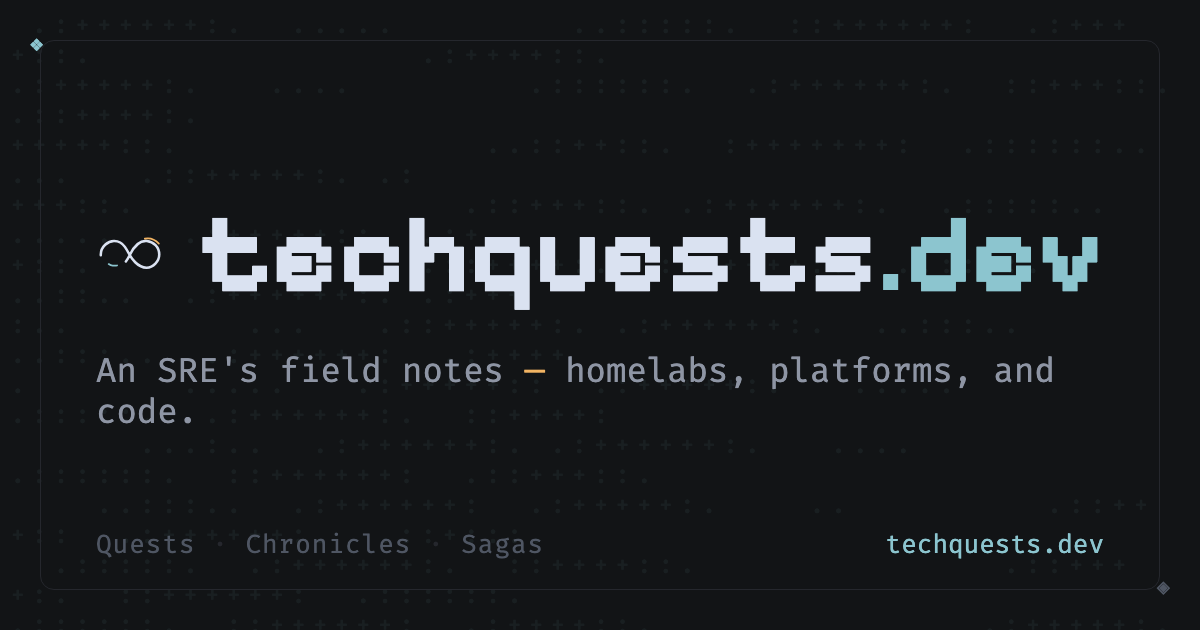
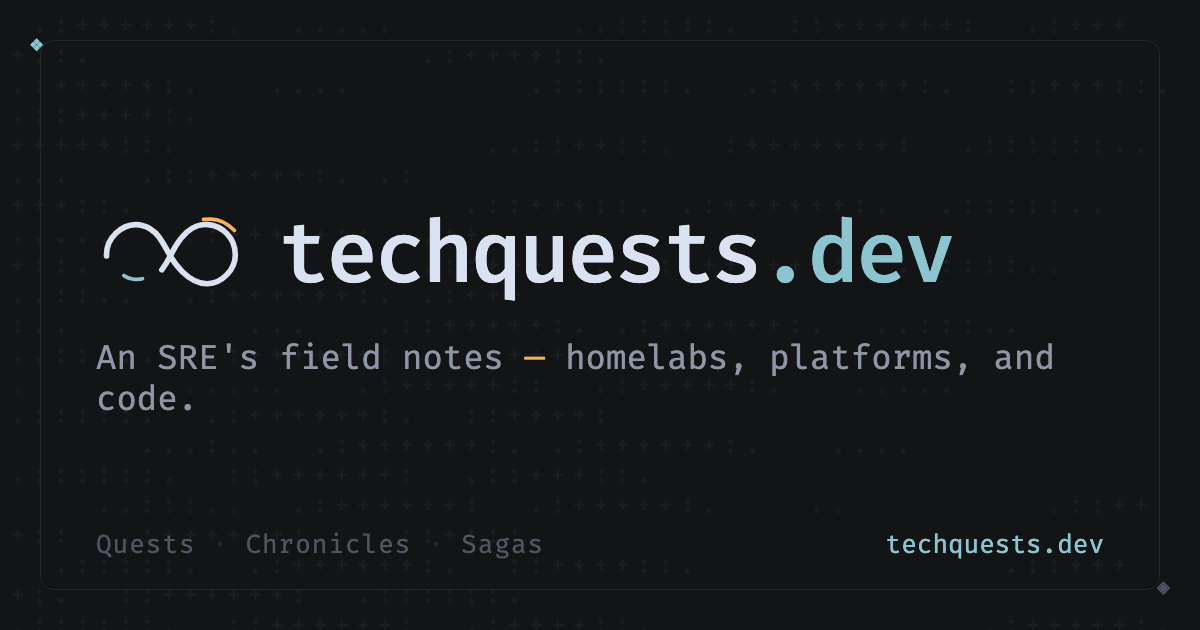
feat(type): retire 8-bit display font for Fira Mono 500
Pixelify Sans clashed with the loop mark, which is drawn with thin,
geometric strokes. Point $font-family-display at the mono already used
sitewide so there is one type voice, and set the display weight to 500 —
bold mono stems read far heavier than the logo sitting next to them.

Adds Fira Mono 500/700 faces (only 400 was loaded), drops pixelify-sans.css
and its import, and regenerates the OG card to match.

Changed region(s): [[0.0617, 0.3317, 0.925, 0.5127], [0.0617, 0.5429, 0.6167, 0.6937], [0.6475, 0.5429, 0.8942, 0.6032]]

diff --git a/src/lib/assets/fonts/fira-mono.css b/src/lib/assets/fonts/fira-mono.css
@@ -23,3 +23,29 @@
     U+0000-00FF, U+0131, U+0152-0153, U+02BB-02BC, U+02C6, U+02DA, U+02DC, U+0304, U+0308, U+0329,
     U+2000-206F, U+2074, U+20AC, U+2122, U+2191, U+2193, U+2212, U+2215, U+FEFF, U+FFFD;
 }
+
+/* fira-mono-latin-500-normal — the display weight (wordmark + hero title) */
+@font-face {
+  font-family: 'Fira Mono';
+  font-style: normal;
+  font-display: swap;
+  font-weight: 500;
+  src: url(https://cdn.jsdelivr.net/fontsource/fonts/fira-mono@latest/latin-500-normal.woff2)
+    format('woff2');
+  unicode-range:
+    U+0000-00FF, U+0131, U+0152-0153, U+02BB-02BC, U+02C6, U+02DA, U+02DC, U+0304, U+0308, U+0329,
+    U+2000-206F, U+2074, U+20AC, U+2122, U+2191, U+2193, U+2212, U+2215, U+FEFF, U+FFFD;
+}
+
+/* fira-mono-latin-700-normal */
+@font-face {
+  font-family: 'Fira Mono';
+  font-style: normal;
+  font-display: swap;
+  font-weight: 700;
+  src: url(https://cdn.jsdelivr.net/fontsource/fonts/fira-mono@latest/latin-700-normal.woff2)
+    format('woff2');
+  unicode-range:
+    U+0000-00FF, U+0131, U+0152-0153, U+02BB-02BC, U+02C6, U+02DA, U+02DC, U+0304, U+0308, U+0329,
+    U+2000-206F, U+2074, U+20AC, U+2122, U+2191, U+2193, U+2212, U+2215, U+FEFF, U+FFFD;
+}

diff --git a/scripts/og/template.html b/scripts/og/template.html
@@ -5,7 +5,7 @@
 <link rel="preconnect" href="https://fonts.googleapis.com" />
 <link rel="preconnect" href="https://fonts.gstatic.com" crossorigin />
 <link
-  href="https://fonts.googleapis.com/css2?family=Pixelify+Sans:wght@400..700&family=Fira+Mono:wght@400;500&family=Inter:wght@400;600&display=swap"
+  href="https://fonts.googleapis.com/css2?family=Fira+Mono:wght@400;500;700&family=Inter:wght@400;600&display=swap"
   rel="stylesheet"
 />
 <style>
@@ -75,9 +75,13 @@
   }
   .brand svg { width: 150px; height: auto; }
   .wordmark {
-    font-family: 'Pixelify Sans', sans-serif;
-    font-weight: 700;
-    font-size: 112px;
+    font-family: 'Fira Mono', monospace;
+    /* 500 to match $font-weight-display — bold overpowers the thin loop mark. */
+    font-weight: 500;
+    /* Mono is wide — smaller size and negative tracking keep the wordmark on one
+       comfortable line next to the mark. Mirrors $letter-spacing-display. */
+    font-size: 86px;
+    letter-spacing: -0.04em;
     line-height: 1;
     color: var(--txt-0);
   }

diff --git a/src/variables.scss b/src/variables.scss
@@ -44,7 +44,14 @@ $font-4xl: 5rem;
 // Font families
 $font-family-base: 'Inter Variable', system-ui, sans-serif;
 $font-family-mono: 'Fira Mono', monospace;
-$font-family-display: 'Pixelify Sans', 'Fira Mono', monospace;
+// Display = the same mono as the rest of the site. Keeps one type voice sitewide
+// and matches the geometric, modern feel of the loop mark.
+$font-family-display: 'Fira Mono', monospace;
+// 500, not 700: the loop mark is drawn with thin strokes, and bold mono stems
+// read far heavier than the logo next to them.
+$font-weight-display: 500;
+// Mono advances are wide; pull the tracking in so large display text doesn't sprawl.
+$letter-spacing-display: -0.04em;
 
 // Line heights
 $line-height-2xl: 2.9rem;

diff --git a/src/routes/+layout.svelte b/src/routes/+layout.svelte
@@ -2,7 +2,6 @@
   import '../app.scss';
   import '$lib/assets/fonts/fira-mono.css';
   import '$lib/assets/fonts/inter.css';
-  import '$lib/assets/fonts/pixelify-sans.css';
   import { page, navigating } from '$app/stores';
   import PageHead from '$lib/components/PageHead.svelte';
   import AsciiField from '$lib/components/AsciiField.svelte';
@@ -197,6 +196,8 @@
 
       h1 {
         font-family: $font-family-display;
+        font-weight: $font-weight-display;
+        letter-spacing: $letter-spacing-display;
         font-size: $font-base;
         color: var(--txt);
         margin: 0;

diff --git a/src/routes/+page.svelte b/src/routes/+page.svelte
@@ -55,6 +55,8 @@
 
   h1 {
     font-family: $font-family-display;
+    font-weight: $font-weight-display;
+    letter-spacing: $letter-spacing-display;
     font-size: $font-3xl;
     margin: 0;
   }
